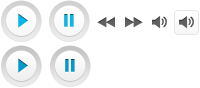
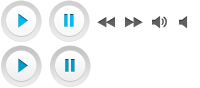
[#26023365] Added working mute control to audio bar

diff --git a/app/assets/stylesheets/widgets.css.scss b/app/assets/stylesheets/widgets.css.scss
@@ -151,7 +151,7 @@
 			padding:0 6px;
 		}
 	}
-	.jp-play, .jp-pause, .jp-rw, .jp-ff, .jp-volume {
+	.jp-play, .jp-pause, .jp-rw, .jp-ff, .jp-mute, .jp-unmute {
 		background-image:url(image_path('audio-controls.png'));
 		background-repeat:no-repeat;
 		display:block;
@@ -163,7 +163,7 @@
 		margin-top:25px;
 		opacity:0.6;
 	}
-	.jp-rw:hover, .jp-ff:hover, .jp-volume:hover {
+	.jp-rw:hover, .jp-ff:hover, .jp-mute:hover, .jp-unmute:hover {
 		opacity:1;
 	}
 	.jp-rw {
@@ -191,14 +191,14 @@
 	.jp-pause:hover {
 		background-position:-49px -45px;
 	}
-	.jp-volume {
+	.jp-mute, .jp-unmute {
 		background-position: -147px -10px;
 		margin-top:18px;
 		opacity:0.6;
 		width:25px;
 		height:25px;
 	}
-	.jp-volume.active {
+	.jp-unmute {
 		background-position: -174px -10px;
 	}
 	.jp-bar {
